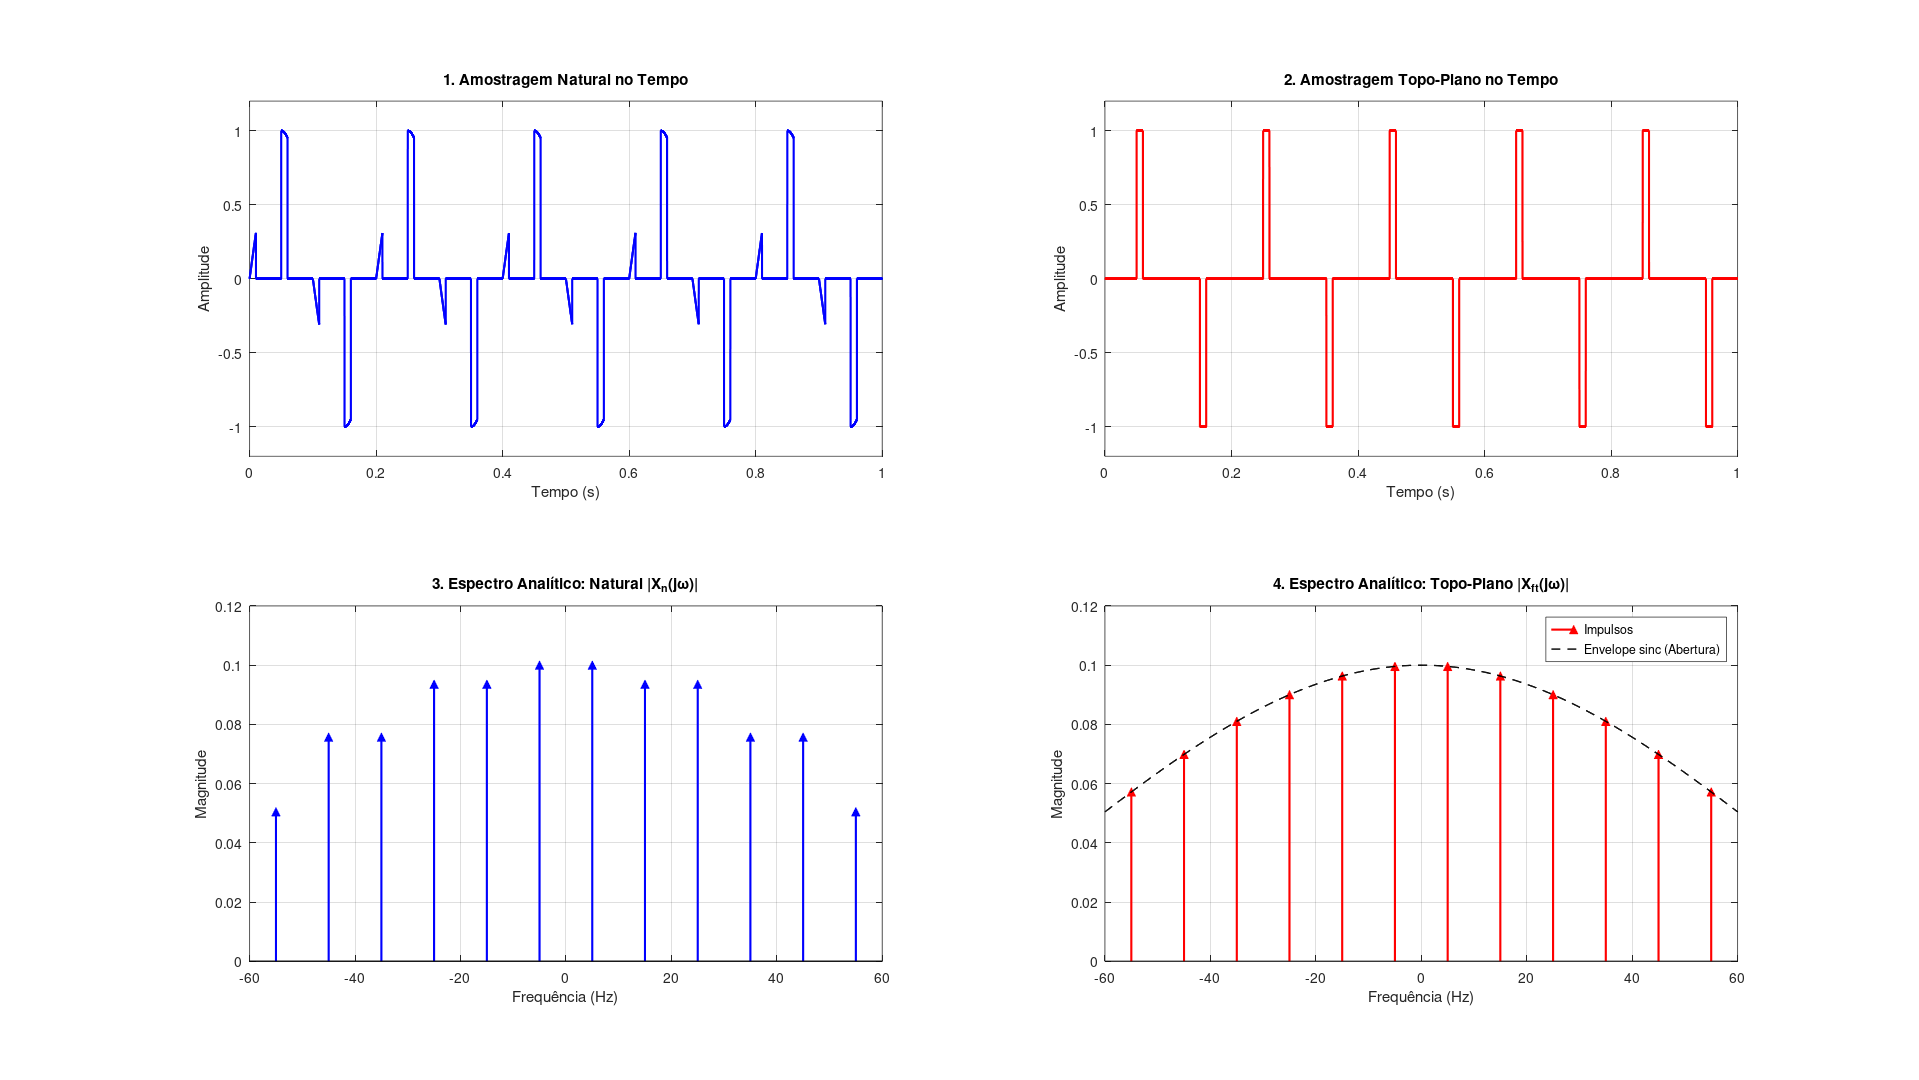
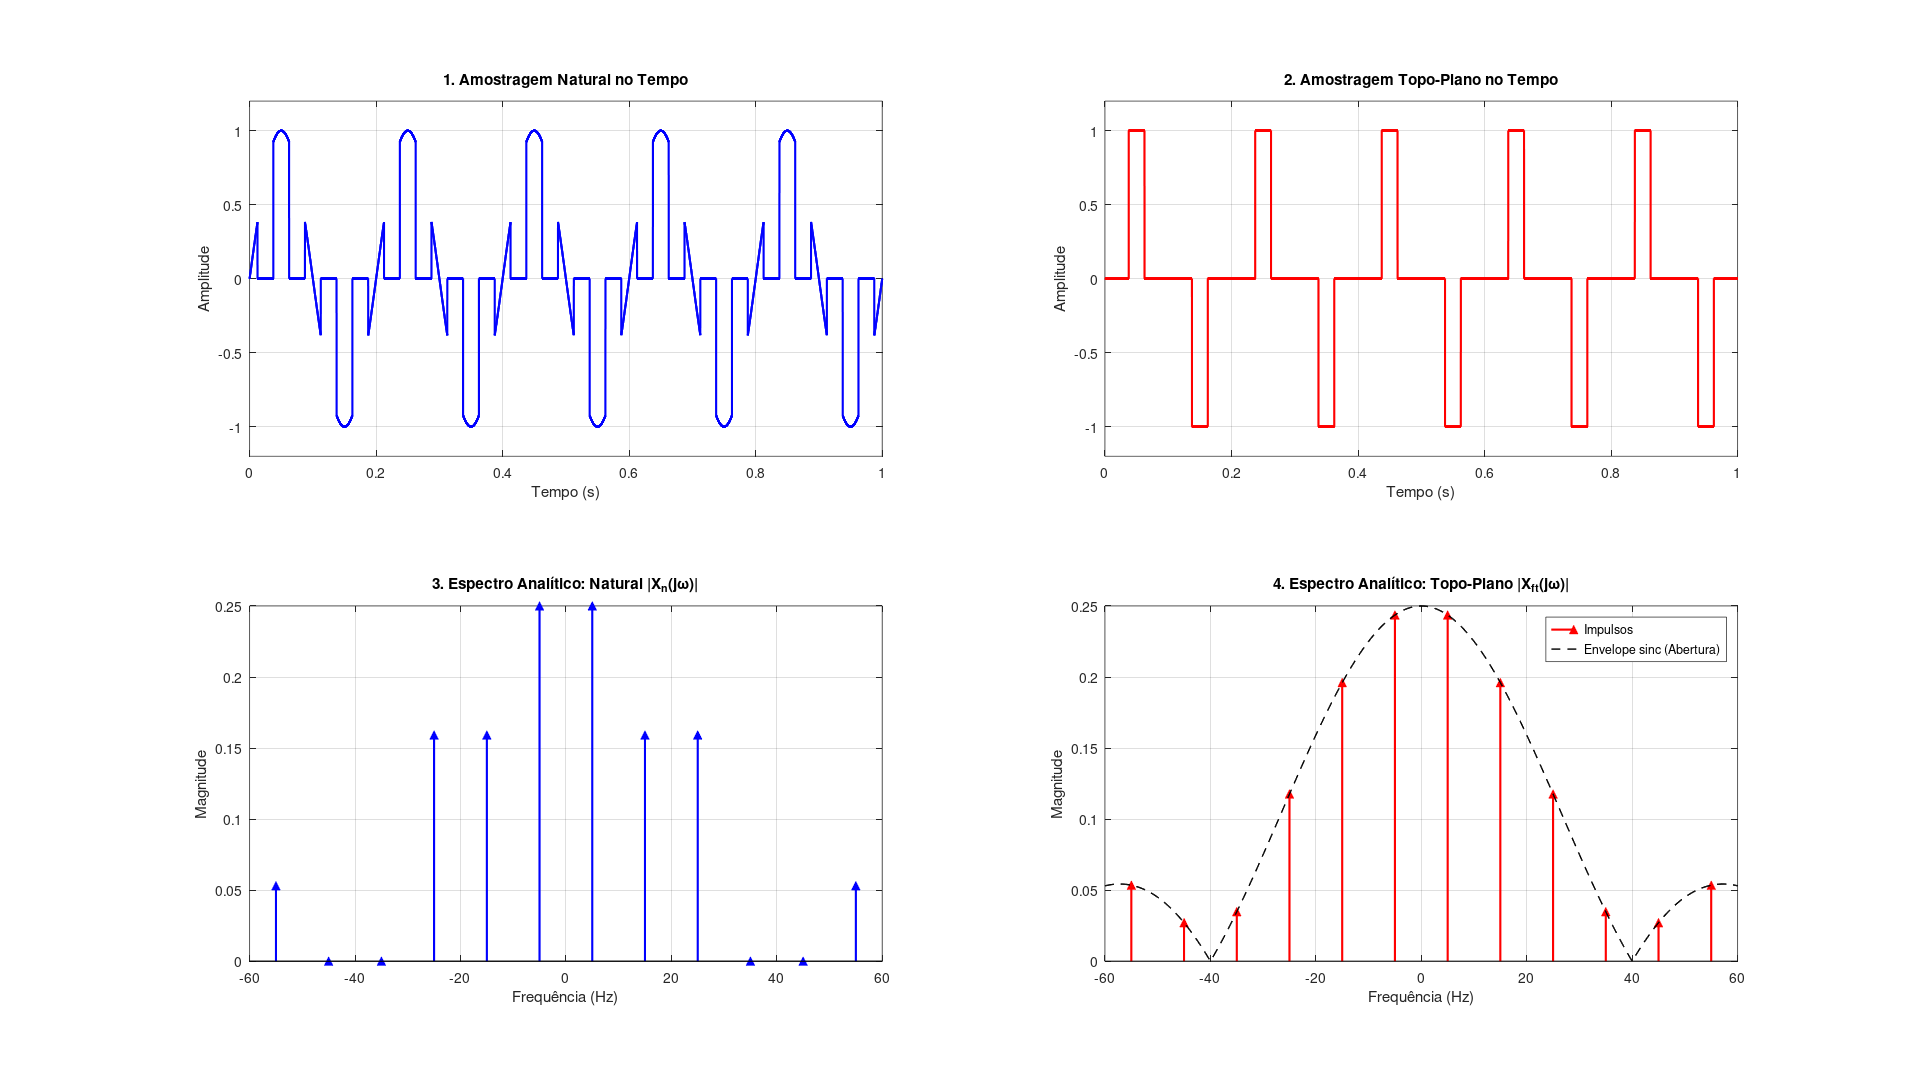
refactor: mudança no nome de variáveis nas funções

diff --git a/src/naturalSampling.m b/src/naturalSampling.m
@@ -1,36 +1,36 @@
-function [xs, ts] = naturalSampling(x, Fs, w, Ti = 0, Tf)
+function [naturalX, naturalTime] = naturalSampling(x, samplingFrequency, tau, startTime = 0, endTime)
   % Natural sampling function
   %
   % Parameters:
   % x: input signal (function)
-  % Fs: sampling frequency (Hz)
-  % w: pulse duration (seconds)
-  % Ti: start time of sampling (default = 0 seconds)
-  % Tf: end time of sampling (seconds)
+  % samplingFrequency: sampling frequency (Hz)
+  % tau: pulse duration (seconds)
+  % startTime: start time of sampling (default = 0 seconds)
+  % endTime: end time of sampling (seconds)
   %
   % Returns:
-  % xs: vector of sampled values
-  % ts: vector of sample times
+  % naturalX: vector of sampled values
+  % naturalTime: vector of sample times
 
   % Calculate the sampling period and time resolution
-  Ts = 1/Fs;
-  dt = Ts/1000;
+  samplingPeriod = 1/samplingFrequency;
+  dt = samplingPeriod/1000;
 
   % Generate the time vector for sampling
-  ts = Ti:dt:Tf;
+  naturalTime = startTime:dt:endTime;
 
   % Generate the time vector for sampling points
-  t_samp = Ti:Ts:Tf;
+  samplingTime = startTime:samplingPeriod:endTime;
 
   % Initialize the output vector with zeros
-  y = zeros(size(ts));
+  y = zeros(size(naturalTime));
 
   % Sample the input signal
-  for k = 1:length(t_samp)
-    idx = (ts >= t_samp(k)) & (ts < t_samp(k) + w);
+  for k = 1:length(samplingTime)
+    idx = (naturalTime >= samplingTime(k) - tau/2) & (naturalTime < samplingTime(k) + tau/2);
     y(idx) = 1;
   end
 
   % Multiply the input signal by the sampling points
-  xs = x(ts).*y;
+  naturalX = x(naturalTime).*y;
 end

diff --git a/src/idealSampling.m b/src/idealSampling.m
@@ -1,18 +1,18 @@
-function [xs, ts] = idealSampling(x, Fs, Ti = 0, Tf)
+function [idealX, idealTime] = idealSampling(x, samplingFrequency, startTime = 0, endTime)
   % idealSampling - Função para amostragem ideal de um sinal
   % 
   % Parâmetros:
   % x: Função que representa o sinal a ser amostrado
-  % Fs: Frequência de amostragem (Hz)
-  % Ti: Tempo inicial do intervalo de amostragem (opcional, default = 0)
-  % Tf: Tempo final do intervalo de amostragem (opcional)
+  % samplingFrequency: Frequência de amostragem (Hz)
+  % startTime: Tempo inicial do intervalo de amostragem (opcional, default = 0)
+  % endTime: Tempo final do intervalo de amostragem (opcional)
   % 
   % Saída:
-  % xs: Vetor de amostras do sinal
-  % ts: Vetor de tempos correspondentes às amostras
+  % idealX: Vetor de amostras do sinal
+  % idealTime: Vetor de tempos correspondentes às amostras
 
-  Ts = 1/Fs;  % Cálculo do período de amostragem
+  Ts = 1/samplingFrequency;  % Cálculo do período de amostragem
 
-  ts = Ti:Ts:(Tf-Ts);  % Geração do vetor de tempos de amostragem
-  xs = x(ts);  % Cálculo do vetor de amostras correspondentes
+  idealTime = startTime:Ts:(endTime-Ts);  % Geração do vetor de tempos de amostragem
+  idealX = x(idealTime);  % Cálculo do vetor de amostras correspondentes
 end

diff --git a/src/flatTopSampling.m b/src/flatTopSampling.m
@@ -1,22 +1,21 @@
-function [xs, ts] = flatTopSampling(x, samplingFrequency, tau, startTime = 0, endTime)
+function [flatTopX, flatTopTime] = flatTopSampling(x, samplingFrequency, tau, startTime = 0, endTime)
   % parâmetros: x = função (handle, ex: @sin)
   % samplingFrequency = frequência de amostragem
   % tau = duração (largura) do pulso, tau <= timeStep
   % startTime = tempo inicial (default = 0), endTime = tempo final
-  % saída: xs = vetor do sinal amostrado, ts = vetor de tempo contínuo
+  % saída: flatTopX = vetor do sinal amostrado, flatTopTime = vetor de tempo contínuo
 
   timeStep = 1/samplingFrequency;
   dt = timeStep/1000;
-  ts = startTime:dt:endTime;
+  flatTopTime = startTime:dt:endTime;
 
-  t_samp = startTime:timeStep:endTime;
-  amplitudes = x(t_samp);
+  samplingTime = startTime:timeStep:endTime;
+  amplitudes = x(samplingTime);
 
-  xs = zeros(size(ts));
+  flatTopX = zeros(size(flatTopTime));
 
-  for k = 1:length(t_samp)
-    % pulso causal: começa em t_samp(k), dura tau segundos
-    idx = (ts >= t_samp(k)) & (ts < t_samp(k) + tau);
-    xs(idx) = amplitudes(k);
+  for k = 1:length(samplingTime)
+    idx = (flatTopTime >= samplingTime(k) - tau/2) & (flatTopTime < samplingTime(k) + tau/2);
+    flatTopX(idx) = amplitudes(k);
   end
 end

diff --git a/main.m b/main.m
@@ -12,7 +12,7 @@ frequency = 5;                         % Frequência do sinal original (Hz)
 omega = 2*pi*frequency;                % Frequência angular (rad/s)
 samplingFrequency = 20;                % Frequência de amostragem (Hz)
 samplingPeriod = 1/samplingFrequency;  % Período de amostragem (s)
-tau = 0.2 * samplingPeriod;            % Largura do pulso (20% do período)
+tau = 0.5 * samplingPeriod;            % Largura do pulso (50% do período)
 
 startTime = 0;                         % Tempo inicial
 endTime = 1;                           % Tempo final
@@ -57,7 +57,7 @@ line([-40 40], [0 0], 'Color', 'k');
 
 % PLOT 4: Frequência - Analítico (Amostrado Ideal)
 subplot(2, 2, 4);
-kIdealSamples = -2:2;
+kIdealSamples = -8:8;
 idealFrequencyLocations = []; 
 idealMagnitudes = [];
 
@@ -99,7 +99,7 @@ grid on; ylim([-1.2 1.2]);
 
 % PLOT 3: Frequência - Analítico (Natural)
 subplot(2, 2, 3);
-kNaturalSamples = -3:3; 
+kNaturalSamples = -8:8; 
 naturalFrequencyLocations = []; 
 naturalMagnitudes = [];
 
